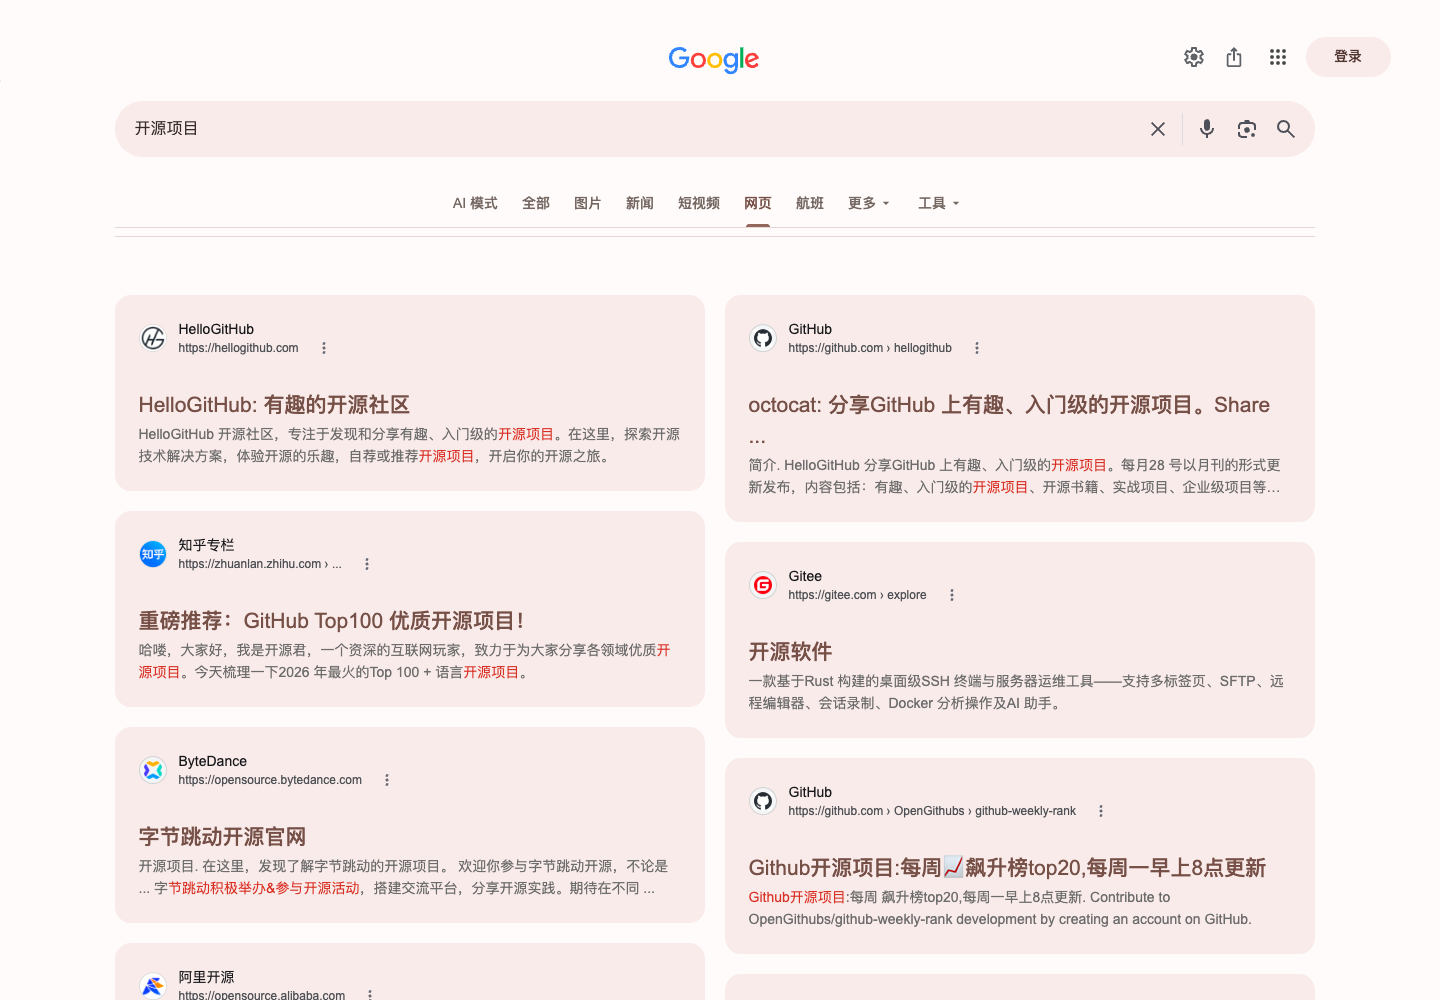
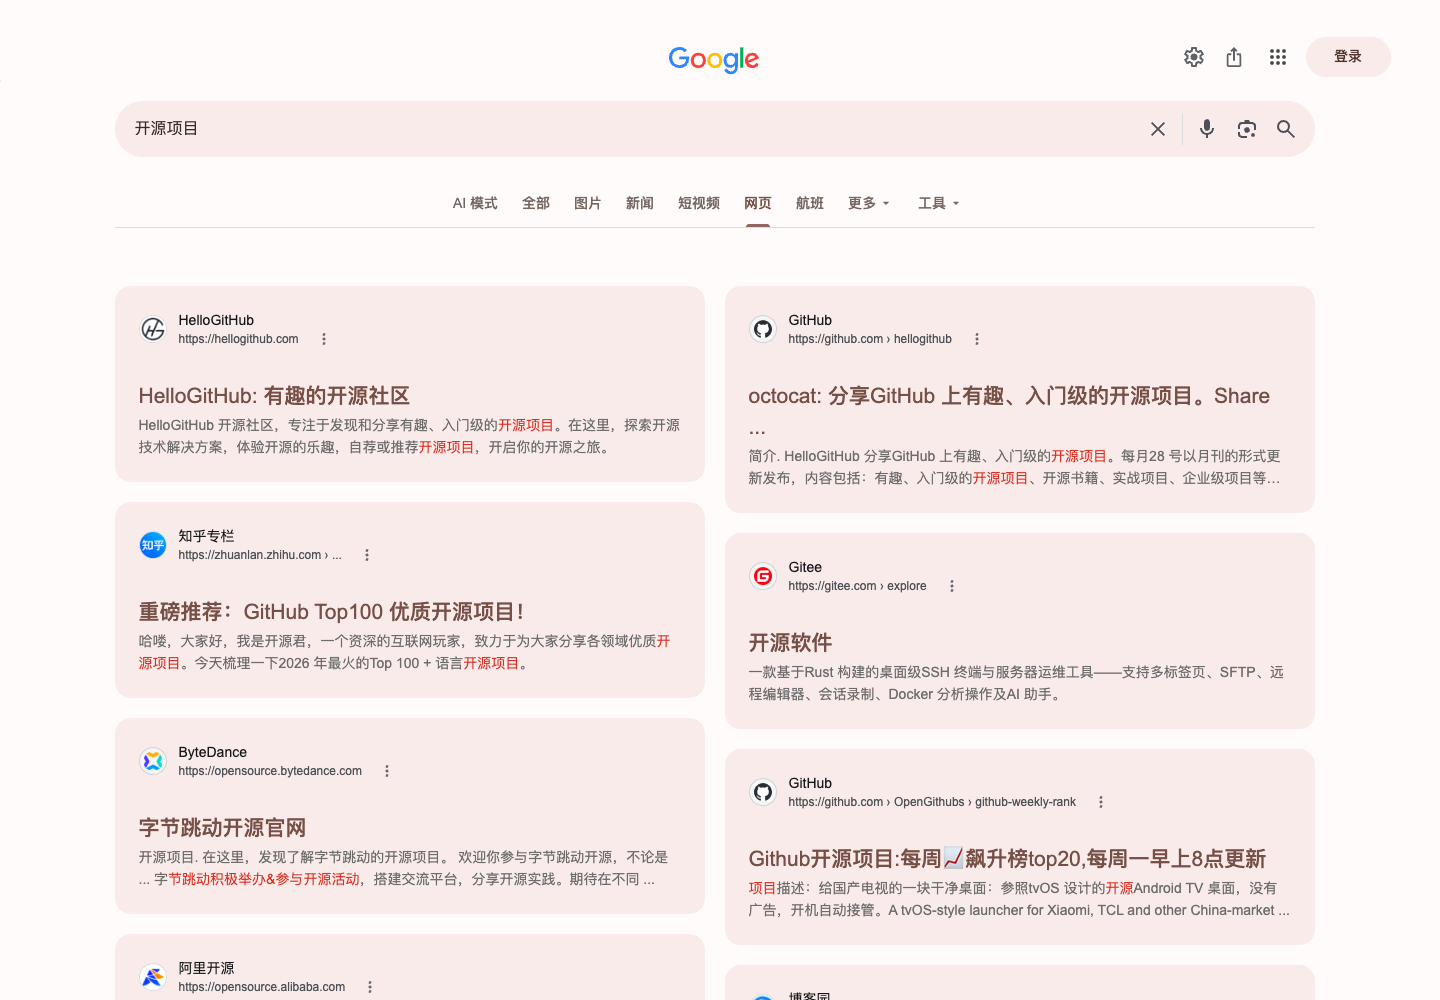
修复: 去除导航重复分隔线并更新预览图

diff --git a/search-quiet-cards.user.js b/search-quiet-cards.user.js
@@ -2,7 +2,7 @@
 // @name         谷歌搜索样式优化 · MD3 风格
 // @name:zh-CN   谷歌搜索样式优化 · MD3 风格
 // @namespace    local.google-search.quiet-cards
-// @version      1.9.13
+// @version      1.9.14
 // @description  MD3 风格的 Google 搜索样式优化，支持卡片瀑布流、实时设置与自动翻页，兼容百度、必应、搜狗。
 // @author       dot
 // @downloadURL  https://raw.githubusercontent.com/ZOUYIQAQ/Better-Google-Search/main/search-quiet-cards.user.js
@@ -153,7 +153,7 @@ dialog { overflow: hidden !important; padding: 8px !important; }
     return;
   const PREFIX = "gqc";
   const STYLE_ID = `${PREFIX}-styles`;
-  const VERSION = "1.9.13";
+  const VERSION = "1.9.14";
   const read = (name, fallback) => {
     try {
       return typeof GM_getValue === "function"
@@ -573,6 +573,13 @@ html[data-gqc-active="true"] .gqc-nav-shell {
   border: 0 !important;
   border-bottom: 1px solid var(--gqc-line) !important;
   padding-bottom: 0 !important;
+}
+/* 新导航已绘制底线，旧工具容器保留交互但不再叠加第二条分隔线。 */
+html[data-gqc-active="true"] #hdtb.gqc-nav-aux {
+  border: 0 !important;
+  box-shadow: none !important;
+  background: transparent !important;
+  margin-block: 0 !important;
 }
 html[data-gqc-active="true"] .gqc-nav-wrapper {
   box-sizing: border-box !important;
@@ -1976,6 +1983,11 @@ html[data-gqc-active="true"] #searchform [name="q"]:focus-visible {
     const oldNav = document.querySelector("#hdtb");
     const row = document.querySelector("#cnt .rQTE8b");
     if (row && row.querySelector('[role="list"]')) {
+      // 流式加载可能先识别旧工具容器，主导航出现后撤销其外壳边线。
+      if (oldNav) {
+        unmark(oldNav, "gqc-nav-shell");
+        mark(oldNav, "gqc-nav-aux");
+      }
       const shell = row.closest(".Fgyi2e") || row.closest(".YNk70c");
       if (shell) {
         mark(shell, "gqc-nav-shell");
@@ -1991,6 +2003,7 @@ html[data-gqc-active="true"] #searchform [name="q"]:focus-visible {
           mark(node, "gqc-nav-wrapper");
       }
     } else if (oldNav) {
+      unmark(oldNav, "gqc-nav-aux");
       mark(oldNav, "gqc-nav-shell");
       const items = oldNav.querySelector('#hdtb-msb, [role="tablist"], nav');
       if (items) {

diff --git a/README.md b/README.md
@@ -1,10 +1,10 @@
 # 谷歌搜索样式优化 · MD3 风格
 
-采用 Material Design 3（MD3）风格，以 Google 为主，兼容百度、必应与搜狗的搜索结果页美化脚本。当前版本：**1.9.13**。
+采用 Material Design 3（MD3）风格，以 Google 为主，兼容百度、必应与搜狗的搜索结果页美化脚本。当前版本：**1.9.14**。
 
 ## 预览
 
-以下为 1.9.13 在真实 Google 搜索页的截图，单列与双列使用同一组搜索结果。
+以下为 1.9.14 在真实 Google 搜索页的截图，单列与双列使用同一组搜索结果。
 
 ### 双列瀑布流
 
@@ -40,6 +40,11 @@
 ## 设置入口
 
 点击脚本管理器图标，在本脚本下方选择 **“界面设置”**。各搜索站点独立保存配置。
+
+## 1.9.14 更新
+
+- 修复导航栏下方重复分隔线：新导航出现后，撤销旧工具容器的导航外壳标记，保留原生工具交互。
+- 重新拍摄单列、双列与设置弹窗预览图。
 
 ## 1.9.13 更新
 
